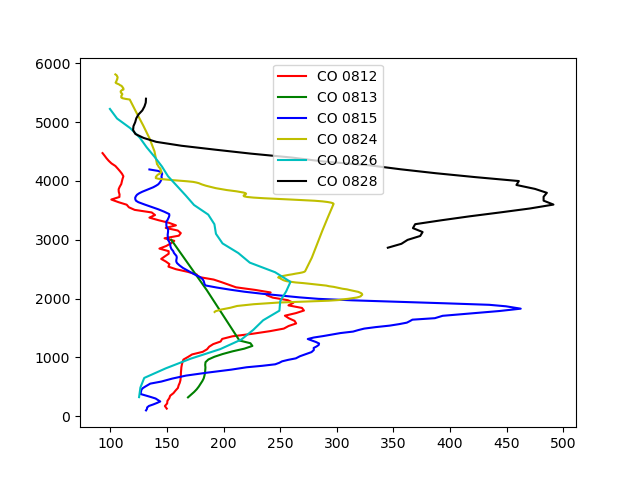
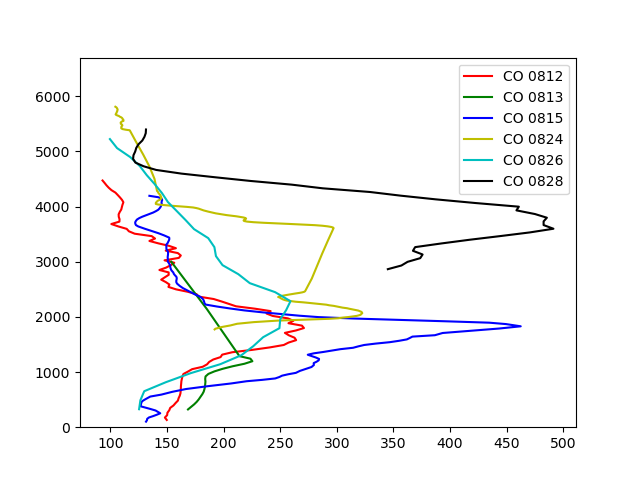
set ylim

diff --git a/plotting.py b/plotting.py
@@ -35,8 +35,10 @@ def plot_OA(r, directory, fac, window):
         label = n.replace("Adf_", "OA ")
         label = label.replace(".txt", "")
         plt.plot(df["ORG"], df['GPS_Alt'], c=cmap[i], label=label) # plot mean values
+        plt.ylim([0, 6700])
         plt.legend()
     plt.savefig(pname)
+    plt.clf()
 
 def plot_others(r, directory, tp, fac, window):
     pname = os.path.join(cur_dir, "Plots", "MA_{}_{}_{}-{}.png".format(directory, tp, r[0], r[1]))
@@ -54,6 +56,7 @@ def plot_others(r, directory, tp, fac, window):
         label = n.replace("Adf_", tp+" ")
         label = label.replace(".txt", "")
         plt.plot(df['MA_val'], df['MA_alt'], c=cmap[i], label=label) # plot mean values
+        plt.ylim([0, 6700])
         plt.legend()
     plt.savefig(pname)
     plt.clf()
